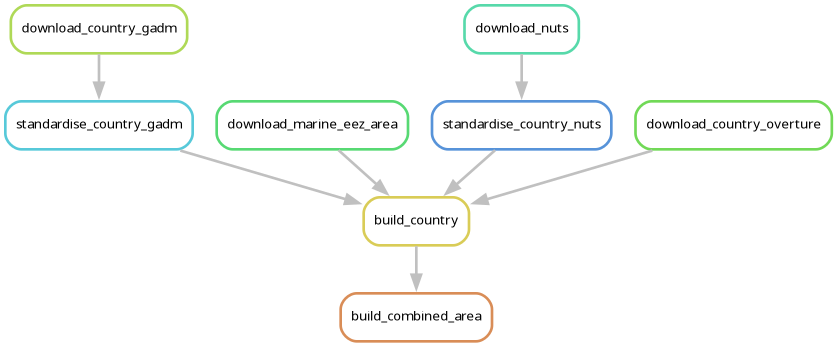
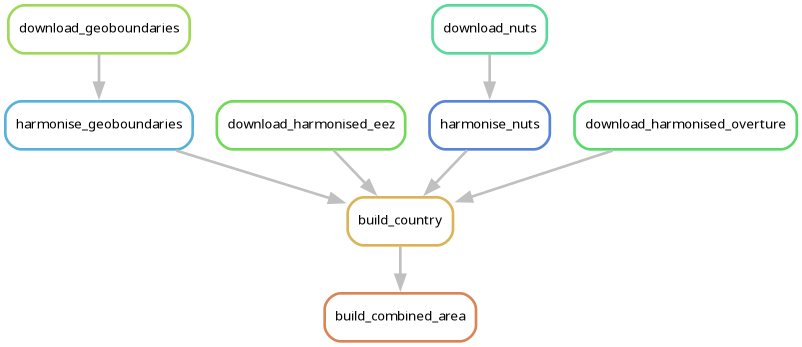
Improved voronoi

diff --git a/workflow/scripts/build_country.py b/workflow/scripts/build_country.py
@@ -3,6 +3,7 @@
 import math
 import sys
 from collections.abc import Iterator
+from dataclasses import dataclass
 from typing import TYPE_CHECKING, Any
 
 import _schemas
@@ -10,7 +11,7 @@ import _utils
 import geopandas as gpd
 import pandas as pd
 from pyproj import CRS
-from shapely import voronoi_polygons
+from shapely import make_valid, voronoi_polygons
 from shapely.geometry import (
     GeometryCollection,
     LineString,
@@ -19,6 +20,7 @@ from shapely.geometry import (
     Point,
 )
 from shapely.geometry.base import BaseGeometry
+from shapely.ops import linemerge, unary_union
 
 if TYPE_CHECKING:
     snakemake: Any
@@ -26,25 +28,165 @@ if TYPE_CHECKING:
 ROUND_DECIMALS: int = 3
 
 
+@dataclass(frozen=True)
+class VoronoiConfig:
+    """Voronoi settings from the configuration."""
+
+    enabled: bool
+    sample_spacing: int
+    min_samples_per_shoreline: int
+    max_samples_per_maritime: int
+    include_shoreline_vertices: bool
+    shoreline_search_radius: int
+    uncovered_area_tolerance: float
+
+
+@dataclass(frozen=True)
+class ShorelineLine:
+    """A shoreline line and the land shape that generated it."""
+
+    assigned_shape_id: str
+    geometry: LineString
+
+
 def _iter_lines(geom: BaseGeometry) -> Iterator[LineString]:
+    """Yield line components from a possibly nested geometry."""
     if geom.is_empty:
         return
     if isinstance(geom, LineString):
         yield geom
-        return
-    if isinstance(geom, MultiLineString):
+    elif isinstance(geom, MultiLineString):
         yield from geom.geoms
-        return
-    if isinstance(geom, GeometryCollection):
+    elif isinstance(geom, GeometryCollection):
         for part in geom.geoms:
             yield from _iter_lines(part)
 
 
-def _sample_line_midpoints(line: LineString, spacing: float) -> list[Point]:
-    if line.length == 0:
+def _merge_lines(lines: list[LineString]) -> list[LineString]:
+    """Merge connected line fragments into longer line components."""
+    return list(_iter_lines(linemerge(unary_union(lines)))) if lines else []
+
+
+def _sample_line_midpoints(
+    line: LineString, spacing: float, min_samples: int = 1
+) -> list[Point]:
+    """Sample evenly spaced midpoint locations along a line."""
+    length = line.length
+    points: list[Point] = []
+    if length != 0:
+        n = max(1, min_samples, math.ceil(length / spacing))
+        points = [line.interpolate((i + 0.5) * length / n) for i in range(n)]
+    return points
+
+
+def _sample_line_vertices(line: LineString) -> list[Point]:
+    """Sample existing line vertices without adding ambiguous open-line endpoints."""
+    coords = list(line.coords)
+    if len(coords) < 2:
         return []
-    n = max(1, math.ceil(line.length / spacing))
-    return [line.interpolate((i + 0.5) * line.length / n) for i in range(n)]
+    if line.is_ring:
+        coords = coords[:-1]
+    else:
+        coords = coords[1:-1]
+    return [Point(coord) for coord in coords]
+
+
+def _collect_shoreline_lines(
+    maritime_row, land: gpd.GeoDataFrame, *, shoreline_search_radius: float
+) -> list[ShorelineLine]:
+    """Find marine-facing exterior shoreline lines for a maritime shape."""
+    country_boundary = land.geometry.union_all().boundary
+    coastal_band = maritime_row.geometry.buffer(max(0, shoreline_search_radius))
+    candidate_land = land.iloc[land.sindex.query(coastal_band, predicate="intersects")]
+
+    shoreline_lines: list[ShorelineLine] = []
+    for land_row in candidate_land.itertuples(index=False):
+        shoreline = land_row.geometry.boundary.intersection(country_boundary)
+        shoreline = shoreline.intersection(coastal_band)
+        shoreline_lines.extend(
+            ShorelineLine(land_row.shape_id, line)
+            for line in _merge_lines(list(_iter_lines(shoreline)))
+        )
+    return shoreline_lines
+
+
+def _deduplicate_seed_records(
+    seeds: list[dict[str, object]],
+) -> list[dict[str, object]]:
+    """Keep one seed per coordinate and drop coordinates assigned to multiple shapes."""
+    grouped: dict[tuple[float, float], list[dict[str, object]]] = {}
+    for seed in seeds:
+        point = seed["geometry"]
+        if not isinstance(point, Point):
+            raise TypeError("Expected shoreline seed geometry to be a Point.")
+        key = (round(point.x, ROUND_DECIMALS), round(point.y, ROUND_DECIMALS))
+        grouped.setdefault(key, []).append(seed)
+
+    deduplicated = []
+    for matches in grouped.values():
+        assigned_ids = {match["assigned_shape_id"] for match in matches}
+        if len(assigned_ids) == 1:
+            deduplicated.append(matches[0])
+    return deduplicated
+
+
+def _sample_lines(
+    shoreline_lines: list[ShorelineLine],
+    spacing: float,
+    min_samples: int,
+    include_vertices: bool,
+) -> list[dict[str, object]]:
+    """Convert shoreline lines into assigned Voronoi seed records."""
+    sampled_seeds: list[dict[str, object]] = []
+    for shoreline_line in shoreline_lines:
+        points = _sample_line_midpoints(shoreline_line.geometry, spacing, min_samples)
+        if include_vertices:
+            points.extend(_sample_line_vertices(shoreline_line.geometry))
+
+        sampled_seeds.extend(
+            {"assigned_shape_id": shoreline_line.assigned_shape_id, "geometry": p}
+            for p in points
+        )
+    return _deduplicate_seed_records(sampled_seeds)
+
+
+def _make_shoreline_seed_records(
+    shoreline_lines: list[ShorelineLine],
+    *,
+    sample_spacing: float,
+    min_samples_per_shoreline: int,
+    max_samples_per_maritime: int,
+    include_shoreline_vertices: bool,
+) -> list[dict[str, object]]:
+    """Create bounded shoreline seed records for one maritime split."""
+    min_samples_per_shoreline = max(1, min_samples_per_shoreline)
+    max_samples_per_maritime = max(1, max_samples_per_maritime)
+
+    seeds = _sample_lines(
+        shoreline_lines,
+        sample_spacing,
+        min_samples_per_shoreline,
+        include_shoreline_vertices,
+    )
+    if len(seeds) > max_samples_per_maritime:
+        total_length = sum(line.geometry.length for line in shoreline_lines)
+        adaptive_spacing = max(
+            sample_spacing, total_length / max(1, max_samples_per_maritime)
+        )
+        adaptive_min_samples = max(
+            1,
+            min(
+                min_samples_per_shoreline,
+                max_samples_per_maritime // max(1, len(shoreline_lines)),
+            ),
+        )
+        seeds = _sample_lines(
+            shoreline_lines,
+            adaptive_spacing,
+            adaptive_min_samples,
+            include_vertices=False,
+        )
+    return seeds
 
 
 def _split_one_maritime(
@@ -52,38 +194,32 @@ def _split_one_maritime(
     land: gpd.GeoDataFrame,
     *,
     crs: int | str,
-    sample_spacing: float,
-    coverage_area_tolerance: float,
+    voronoi_config: VoronoiConfig,
 ) -> gpd.GeoDataFrame:
+    """Split a single maritime shape to fit the coastline."""
     if land.empty:
         raise ValueError(
             f"No land shapes found for country_id={maritime_row.country_id!r}."
         )
 
-    # Sample through the shoreline
-    boundary = maritime_row.geometry.boundary
-    candidate_land = land.iloc[land.sindex.query(boundary, predicate="intersects")]
-
-    seeds: list[dict[str, object]] = []
-    for land_row in candidate_land.itertuples(index=False):
-        shoreline = land_row.geometry.boundary.intersection(boundary)
-
-        for line in _iter_lines(shoreline):
-            for point in _sample_line_midpoints(line, sample_spacing):
-                seeds.append(
-                    {"assigned_shape_id": land_row.shape_id, "geometry": point}
-                )
+    sample_spacing = voronoi_config.sample_spacing
+    shoreline_lines = _collect_shoreline_lines(
+        maritime_row,
+        land,
+        shoreline_search_radius=voronoi_config.shoreline_search_radius,
+    )
+    seeds = _make_shoreline_seed_records(
+        shoreline_lines,
+        sample_spacing=sample_spacing,
+        min_samples_per_shoreline=voronoi_config.min_samples_per_shoreline,
+        max_samples_per_maritime=voronoi_config.max_samples_per_maritime,
+        include_shoreline_vertices=voronoi_config.include_shoreline_vertices,
+    )
     if not seeds:
         raise ValueError(
             f"No touching shoreline regions found for maritime shape {maritime_row.shape_id!r}."
         )
     seed_gdf = gpd.GeoDataFrame(seeds, geometry="geometry", crs=crs)
-
-    # Drop seeds too close to each other
-    xy = seed_gdf.geometry.map(
-        lambda p: (round(p.x, ROUND_DECIMALS), round(p.y, ROUND_DECIMALS))
-    )
-    seed_gdf = seed_gdf.loc[~xy.duplicated()].reset_index(drop=True)
 
     base_row = maritime_row._asdict()
     assigned_ids = seed_gdf["assigned_shape_id"].unique()
@@ -92,15 +228,18 @@ def _split_one_maritime(
         pieces = gpd.GeoDataFrame([base_row.copy()], geometry="geometry", crs=crs)
     else:
         # Run Voronoi
+        maritime_geometry = make_valid(maritime_row.geometry)
         cells = gpd.GeoDataFrame(
             geometry=list(
                 voronoi_polygons(
                     MultiPoint(list(seed_gdf.geometry)),
-                    extend_to=maritime_row.geometry.envelope.buffer(sample_spacing * 2),
+                    extend_to=maritime_geometry.envelope.buffer(sample_spacing * 2),
                 ).geoms
             ),
             crs=crs,
         )
+        cells["geometry"] = cells.geometry.map(make_valid)
+
         # Identify where each voronoi cell belongs
         cells = gpd.sjoin(
             cells,
@@ -114,17 +253,15 @@ def _split_one_maritime(
             )
 
         # Keep only cells on the maritime area and test for completeness
-        cells["geometry"] = cells.geometry.intersection(maritime_row.geometry)
+        cells["geometry"] = cells.geometry.intersection(maritime_geometry)
         cells = cells.loc[~cells.geometry.is_empty & (cells.geometry.area > 0)]
         pieces = (
             cells[["assigned_shape_id", "geometry"]]
             .dissolve(by="assigned_shape_id", as_index=False)
             .rename(columns={"assigned_shape_id": "_assigned_shape_id"})
         )
-        uncovered_area = maritime_row.geometry.difference(
-            pieces.geometry.union_all()
-        ).area
-        if uncovered_area > coverage_area_tolerance:
+        uncovered_area = maritime_geometry.difference(pieces.geometry.union_all()).area
+        if uncovered_area > voronoi_config.uncovered_area_tolerance:
             raise RuntimeError(
                 f"Voronoi split did not fully cover maritime shape {maritime_row.shape_id!r}. "
                 f"Uncovered area: {uncovered_area}"
@@ -148,24 +285,25 @@ def split_maritime_by_shoreline_voronoi(
     shapes: gpd.GeoDataFrame,
     *,
     crs: dict[str, CRS],
-    sample_spacing: float = 10_000.0,
-    coverage_area_tolerance: float = 1.0,
+    voronoi_config: VoronoiConfig,
 ) -> gpd.GeoDataFrame:
     """Split EEZ zones to fit shoreline land regions."""
+    if not voronoi_config.enabled:
+        return shapes
+
     shapes = shapes.copy().to_crs(crs["projected"])
 
     land = shapes.loc[shapes["shape_class"].eq("land")]
     maritime = shapes.loc[shapes["shape_class"].eq("maritime")]
 
     if maritime.empty:
-        return ValueError("Requested voronoi without maritime shapes.")
+        raise ValueError("Requested voronoi without maritime shapes.")
 
     split_maritime = [
         _split_one_maritime(
             maritime_row,
             land.loc[land["country_id"].eq(maritime_row.country_id)],
-            sample_spacing=sample_spacing,
-            coverage_area_tolerance=coverage_area_tolerance,
+            voronoi_config=voronoi_config,
             crs=shapes.crs,
         )
         for maritime_row in maritime.itertuples(index=False)
@@ -211,10 +349,9 @@ def main() -> None:
     shapes = combine_shapes(land, maritime, crs["geographic"])
     shapes = _schemas.ShapesSchema.validate(shapes)
 
-    voronoi = snakemake.params.voronoi
-    if not maritime.empty and voronoi["enabled"]:
+    if not maritime.empty:
         shapes = split_maritime_by_shoreline_voronoi(
-            shapes, crs=crs, sample_spacing=voronoi["sample_spacing"]
+            shapes, crs=crs, voronoi_config=VoronoiConfig(**snakemake.params.voronoi)
         )
         shapes = _schemas.ShapesSchema.validate(shapes)
     shapes.to_parquet(snakemake.output.country)